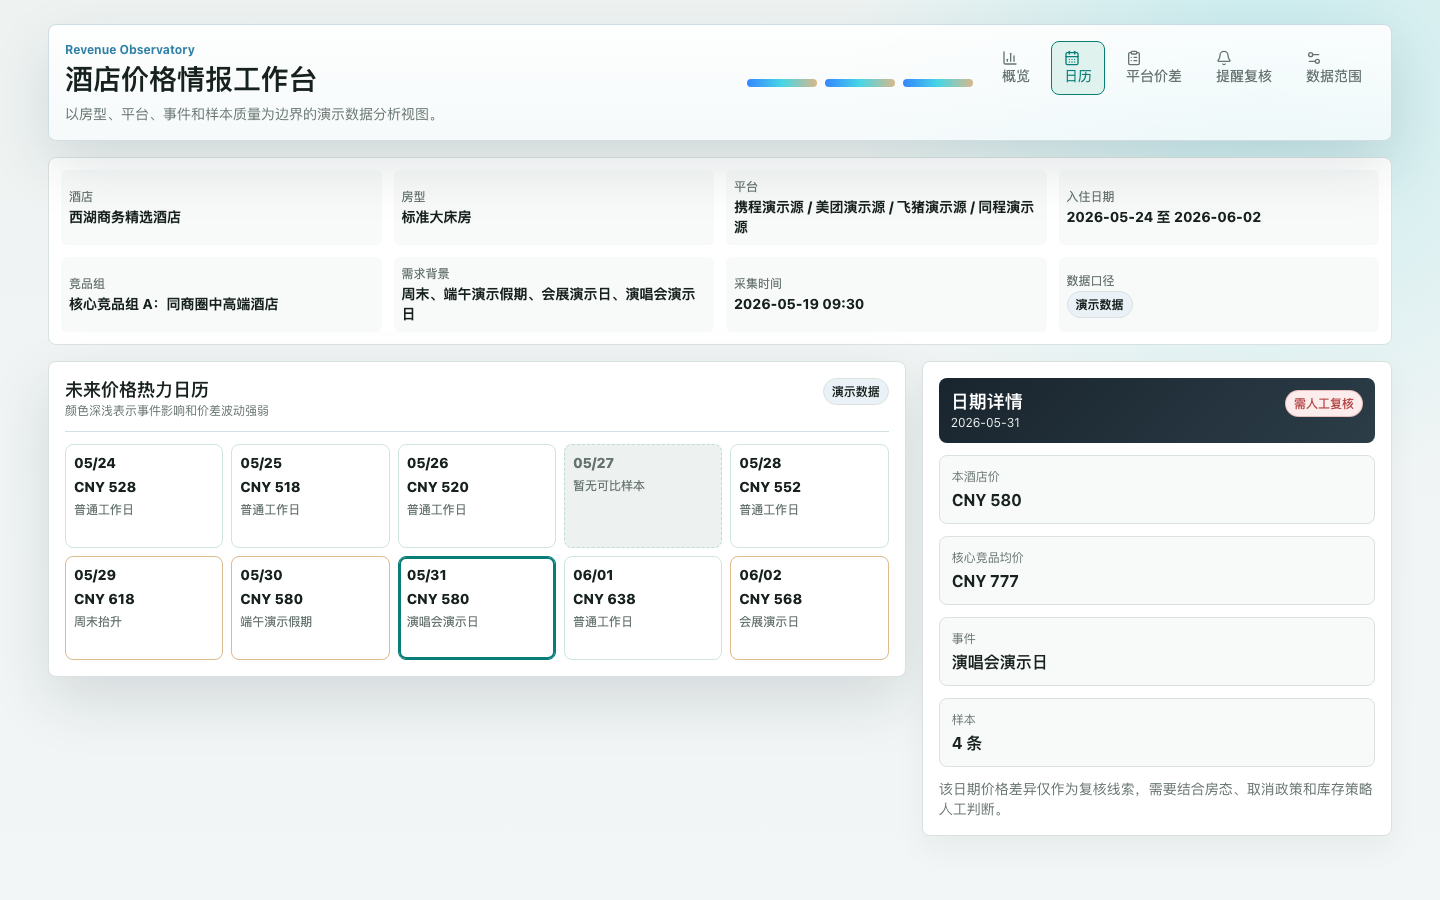
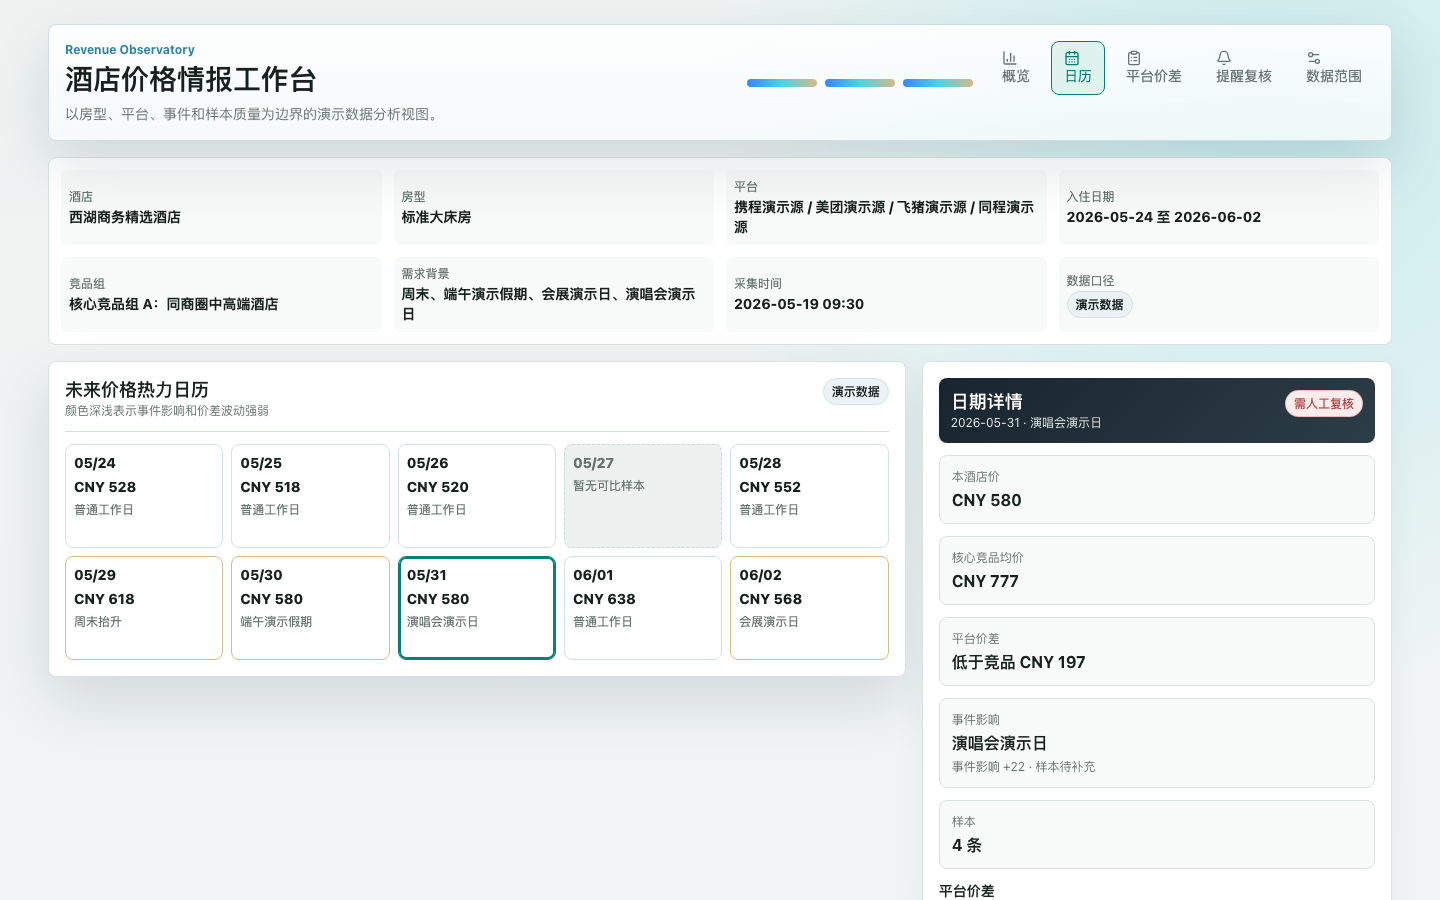
chore: hand off f-014 for verification

Changed region(s): [[0.6562, 0.7778, 0.9688, 1.0], [0.6562, 0.6844, 0.75, 0.7467], [0.7188, 0.4667, 0.75, 0.4978]]

diff --git a/.auto-memory/project-status.md b/.auto-memory/project-status.md
@@ -4,7 +4,7 @@
 
 - Project: Hotel Pricing Capture
 - Workflow: Triad Workflow with Planner / Generator / Evaluator roles
-- Current role for this pass: Planner
+- Current role for this pass: Generator
 - Superpowers: mandatory sequence recorded in `.auto-memory/superpowers-workflow.md`
 - Branch rule: feature branch + PR only; no direct push to `main` / `master`
 
@@ -12,8 +12,8 @@
 
 - Batch id: `interactive-price-calendar-detail-workflow`
 - Feature: `F-014-interactive-price-calendar-detail-workflow`
-- Goal: plan the date-detail data contract and Calendar UI interaction workflow for Generator implementation
-- Status: planning
+- Goal: implement the date-detail data contract and Calendar UI interaction workflow for Evaluator verification
+- Status: verifying
 - Current branch: `feature/f-014-interactive-price-calendar-detail-workflow-planning`
 
 ## Current Facts
@@ -36,6 +36,8 @@
 - F-014 selected route: date-detail data contract plus UI interaction workflow.
 - F-014 spec: `docs/specs/2026-05-20-interactive-price-calendar-detail-workflow.md`.
 - F-014 plan: `docs/superpowers/plans/2026-05-20-interactive-price-calendar-detail-workflow.md`.
+- B-050 Generator implementation is complete and ready for B-051 Evaluator verification.
+- F-014 Generator notes: `docs/test-reports/2026-05-20-f-014-generator-notes.md`.
 
 ## Product Baseline
 
@@ -78,15 +80,16 @@ It does not modify:
 - Triad doctor, Triad doctor smoke test, JSON parsing, and H5 prototype regression passed; prototype regression reports 14 checks.
 - Weekly local automation `酒店定价捕捉项目级文档周更` is ACTIVE for this workspace and reinforces B-048 recurring maintenance.
 
-## F-014 Scope
+## F-014 Generator Scope
 
-F-014 is planned as a product implementation slice for Generator:
+F-014 was implemented as a product slice by Generator:
 
-- add `CalendarDayDetail` and `calendarDetails.byDate` to the local `DemoDataset` contract;
-- derive date details from existing fixture/manual domain seed data;
-- add `CalendarHeatmap` date selection callback and accessible selected state;
-- update `CalendarScreen` to use local selected-date state and render platform gaps, evidence sources, capture time, sample count, rate basis, event impact, missing sample state, and human-review markers;
-- add Testing Library and Playwright coverage for date click behavior and mobile no-overflow.
+- added `CalendarDayDetail` and `calendarDetails.byDate` to the local `DemoDataset` contract;
+- derived date details from existing fixture/manual domain seed data after stale normalization;
+- added `CalendarHeatmap` date selection callback and accessible selected state;
+- updated `CalendarScreen` to use local selected-date state and render platform gaps, evidence sources, capture time, sample count, rate basis, event impact, missing sample state, and human-review markers;
+- added Testing Library and Playwright coverage for date click behavior and mobile no-overflow;
+- refreshed calendar screenshots affected by the new detail rail.
 
 F-014 must not:
 
@@ -97,11 +100,11 @@ F-014 must not:
 ## Boundaries
 
 - No live OTA collection.
-- No credential, cookie, session, CAPTCHA, browser automation, storage, backend route, migration, file upload, recommended-price, or automatic-pricing work is introduced by F-014.
+- No credential, cookie, session, CAPTCHA, browser automation, storage, backend route, migration, file upload, recommended-price, or automatic-pricing work was introduced by F-014.
 - Future real-data work must first pass a source compliance specification.
 - Future product work must read `docs/specs/PROJECT_PRD.md` and `docs/specs/PROJECT_DEVELOPMENT_PLAN.md` before planning or implementation.
 - Project-level PRD and development plan must be checked weekly, even when no feature has been accepted that week.
 
 ## Next Step
 
-B-050 should have Generator implement F-014 from `docs/superpowers/plans/2026-05-20-interactive-price-calendar-detail-workflow.md` using strict TDD. B-048 remains the standing weekly project-documentation maintenance item.
+B-051 should have Evaluator verify F-014 from `docs/test-reports/2026-05-20-f-014-generator-notes.md`, the F-014 spec, and the F-014 plan. B-048 remains the standing weekly project-documentation maintenance item.

diff --git a/docs/test-reports/2026-05-20-f-014-generator-notes.md b/docs/test-reports/2026-05-20-f-014-generator-notes.md
@@ -1,0 +1,56 @@
+# F-014 Generator Notes
+
+Feature: `F-014-interactive-price-calendar-detail-workflow`
+
+Role: Generator
+
+## Scope
+
+Implemented the approved interactive calendar detail slice only:
+
+- added `CalendarDayDetail` and `calendarDetails.byDate` to the local `DemoDataset` contract;
+- derived date details from existing fixture/manual domain seed data after stale normalization;
+- made `CalendarHeatmap` selectable with accessible selected state;
+- wired `CalendarScreen` selected-date state to a detail rail with platform gaps, evidence sources, capture time, sample count, rate basis, event impact, missing-sample state, and human-review markers;
+- added component and Playwright click-flow coverage for available and unavailable dates.
+
+No F-008 alert math, live OTA collection, backend, persistence, credentials, cookies, sessions, CAPTCHA handling, storage, file upload, recommended price, or automatic pricing behavior was added.
+
+## TDD Evidence
+
+- RED data contract: `/opt/homebrew/bin/npm --prefix app test -- tests/data/domainDrivenDataset.test.ts` failed with 2 failing tests because `dataset.calendarDetails.byDate` was undefined.
+- GREEN data contract: `/opt/homebrew/bin/npm --prefix app test -- tests/data/domainDrivenDataset.test.ts` passed with 1 file / 13 tests after adding the typed contract and pure detail derivation.
+- RED heatmap interaction: `/opt/homebrew/bin/npm --prefix app test -- tests/components/charts.test.tsx` failed because selected date cells had no `aria-pressed` state.
+- GREEN heatmap interaction: `/opt/homebrew/bin/npm --prefix app test -- tests/components/charts.test.tsx` passed with 1 file / 5 tests after adding `onSelectDate`, `aria-pressed`, and accessible date labels.
+- RED screen workflow: `/opt/homebrew/bin/npm --prefix app test -- tests/components/calendarScreen.test.tsx` failed because the detail panel was still hardcoded and had no `calendar-detail-panel` test anchor.
+- GREEN screen workflow: `/opt/homebrew/bin/npm --prefix app test -- tests/components/calendarScreen.test.tsx` passed with 1 file / 2 tests after wiring selected-date state and detail rendering.
+- Component regression: `/opt/homebrew/bin/npm --prefix app test -- tests/components` passed with 6 files / 13 tests.
+- Playwright interaction: non-escalated run failed to bind `127.0.0.1:42317` in the sandbox; escalated `/opt/homebrew/bin/npm --prefix app run screenshots -- --grep "calendar date click"` passed with 1 test.
+
+## Verification
+
+- F-014 targeted regression: `/opt/homebrew/bin/npm --prefix app test -- tests/data/domainDrivenDataset.test.ts tests/components/charts.test.tsx tests/components/calendarScreen.test.tsx` passed with 3 files / 20 tests.
+- Full app verification: `/opt/homebrew/bin/npm --prefix app run verify` passed after sandbox escalation for the local Playwright server: build passed, Vitest passed with 15 files / 76 tests, Playwright passed with 19 tests.
+- Project checks:
+  - `python3 scripts/triad_doctor.py` passed.
+  - `python3 scripts/test_triad_doctor.py` passed.
+  - `python3 -m json.tool progress.json` passed.
+  - `python3 -m json.tool features.json` passed.
+  - `python3 -m json.tool backlog.json` passed.
+  - `node tests/client_demo_prototype.test.js` passed with 14 checks.
+  - `git diff --check` passed.
+- Static safety scan over `app/src` and `app/tests` found matches only in negative guardrail tests and forbidden-copy assertions, not in product code.
+
+## Screenshot Artifacts
+
+Full app verification refreshed the calendar screenshots affected by the new detail rail:
+
+- `docs/test-reports/f-007-app-foundation/calendar-detail-open--1440x900.png`
+- `docs/test-reports/f-007-app-foundation/calendar-detail-open--390x844.png`
+- `docs/test-reports/f-007-app-foundation/calendar-observatory--2048x1352.png`
+
+The Playwright screenshot matrix asserted each PNG dimension equals its viewport.
+
+## Handoff
+
+F-014 is ready for Evaluator verification through `B-051`. This is not a final acceptance conclusion.
